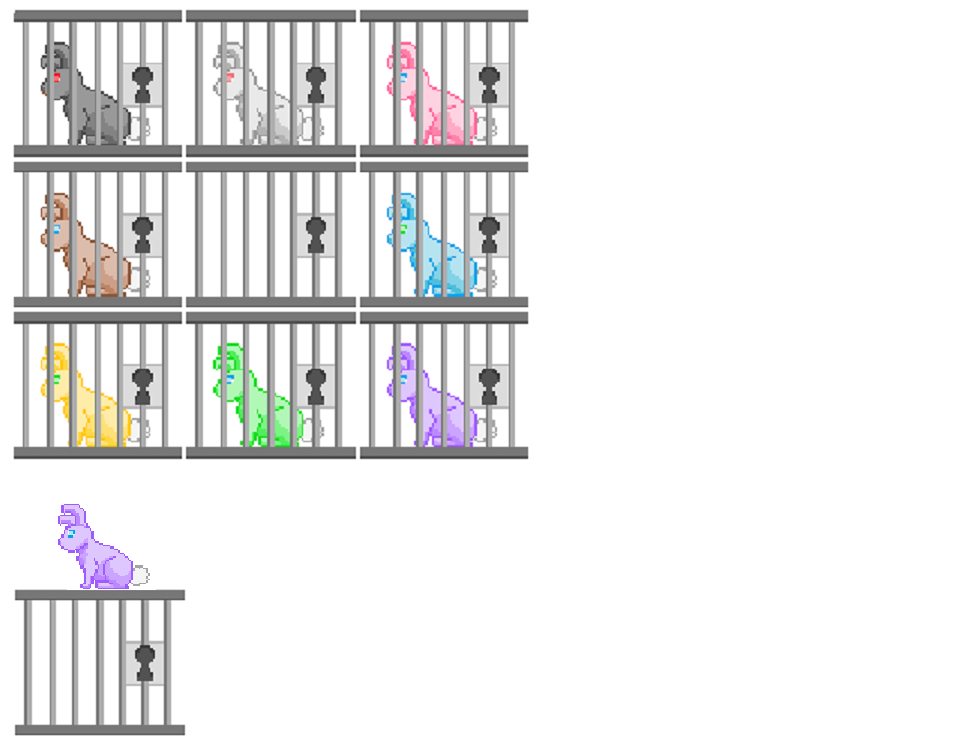
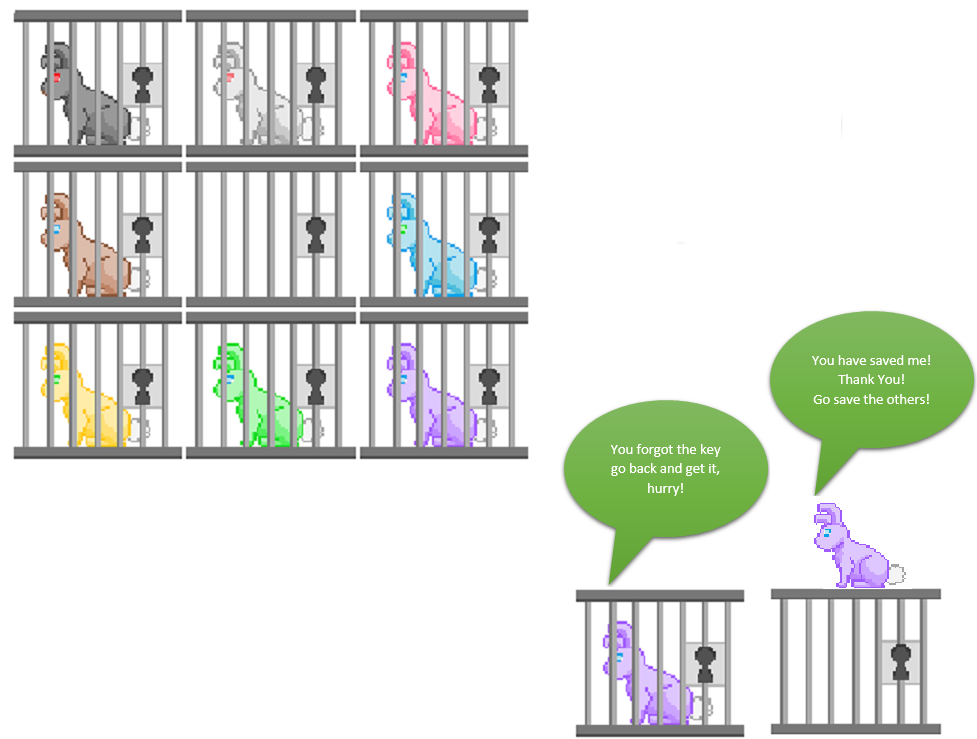
cageed

Changed region(s): [[0.031, 0.0, 1.0, 1.0], [0.0, 0.6847, 0.1858, 0.9959]]

diff --git a/Player.py b/Player.py
@@ -6,12 +6,20 @@ import random
 class Caged_Bunny(pygame.sprite.Sprite):
     caged_bunny_list = []
     Cage_move_x = 0 
-    def __init__(self,x,y):
+    image_num = 1
+    def __init__(self,x,y,platform):
         self.x = x
         self.y = y
+        self.platform = platform
         super().__init__()
         sprite_sheet = SpriteSheet("Caged Bunnies.png")
         image = sprite_sheet.get_image(359, 311, 171, 149)
+        self.caged_bunny_list.append(image)
+        image.set_colorkey(Constants.WHITE)
+        image = sprite_sheet.get_image(558, 399, 211, 339)
+        self.caged_bunny_list.append(image)
+        image.set_colorkey(Constants.WHITE)
+        image = sprite_sheet.get_image(767, 305, 208, 431)
         self.caged_bunny_list.append(image)
         image.set_colorkey(Constants.WHITE)
         
@@ -19,9 +27,15 @@ class Caged_Bunny(pygame.sprite.Sprite):
         self.rect = self.image.get_rect()
         self.rect.x = self.x
         self.rect.y = self.y
+        block_hit_list = pygame.sprite.spritecollide(self, self.platform, False)
+        for block in block_hit_list:
+            self.rect.bottom = block.rect.top
     def update(self):
         self.rect.x = self.x - self.Cage_move_x
-     
+    def free(self):
+        self.image_num = 1
+    def get_the_key(self):
+        self.image_num = 2
 class Key(pygame.sprite.Sprite):
     key_list = []
     key_move_x = 0 

diff --git a/Level_1.py b/Level_1.py
@@ -31,7 +31,7 @@ def level_one():
     platform6 = Platform(2400,250,1)
      
     player = Player(25,400,platform_list,True,Player.black_bunny, hight)
-    caged_bunny = Caged_Bunny(3050,525) 
+    caged_bunny = Caged_Bunny(3050,525,platform_list) 
     key = Key(key_x,key_y,player.change_x)
     
     key_list.add(key)
@@ -102,7 +102,11 @@ def level_one():
             
         block_hit_list = pygame.sprite.spritecollide(player, caged_bunny_list, False)
         for block in block_hit_list:
+            pass
             if key_collected == True:
+                caged_bunny.free()
+            else:
+                caged_bunny.get_the_key()
             
         
         if key_collected == True and player.change_x > 0:
